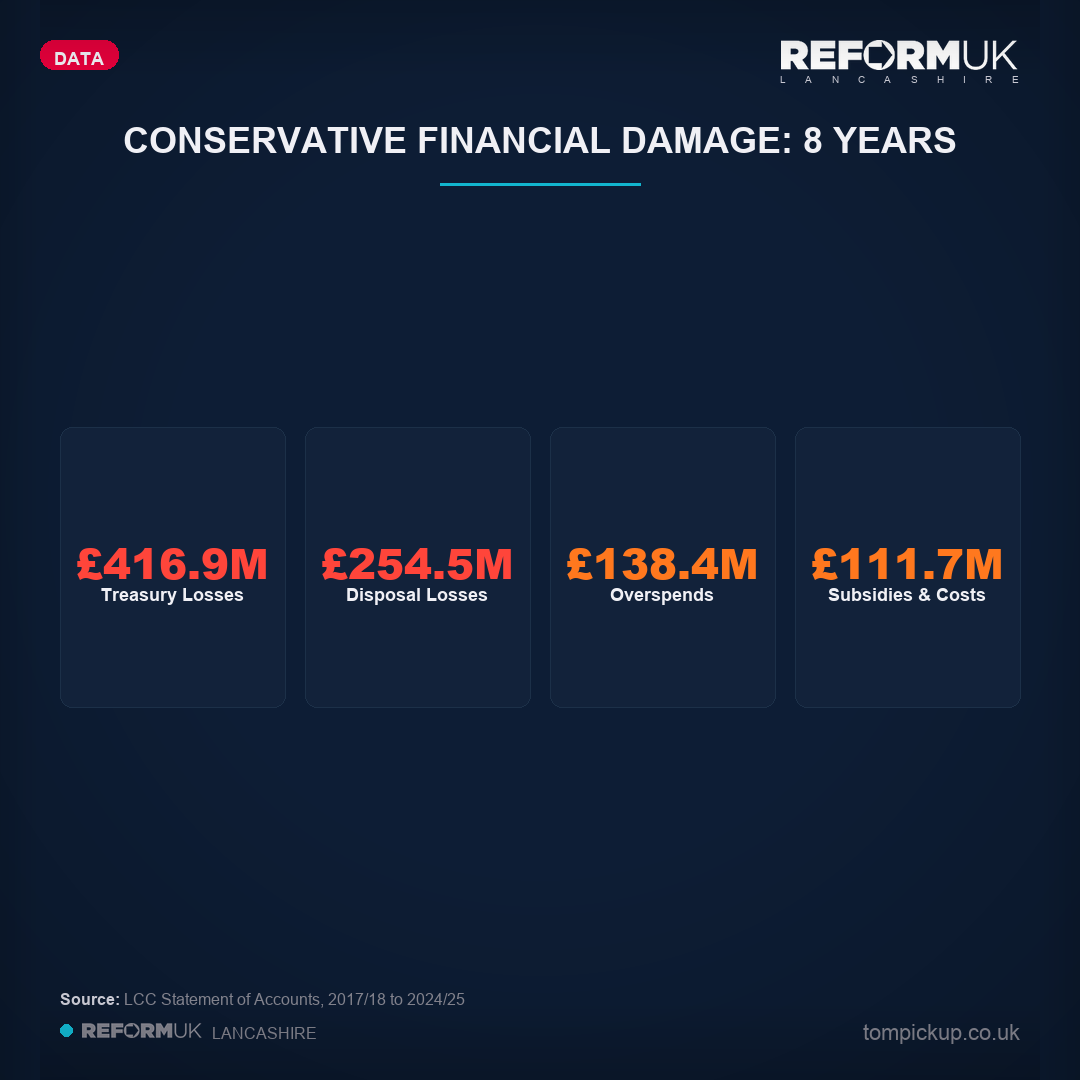
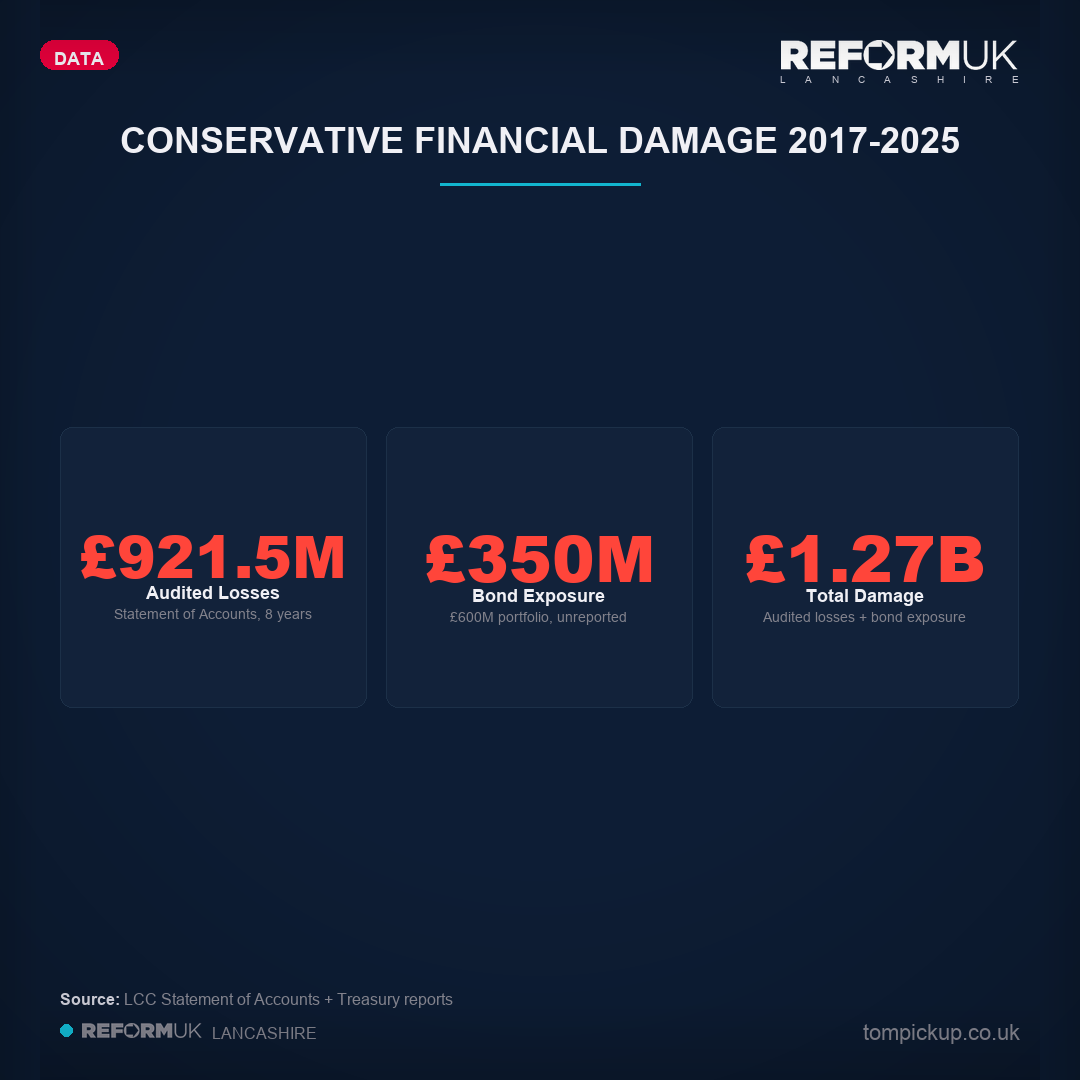
Upgrade article data viz: larger text, combined sections, tighter messaging
Article:
- Combine financial damage + bonds into one section with £1.27B total
- Add 'What £1.27B Looks Like' comparison (vs highways, budget, asylum days)
- Merge savings realisation (£5 per £100) into overspend section
- Remove all emdashes (9 instances)
- Tighten 'What Comes Next': reversed 4.99% rot, just getting started
- Headline stat card: £1.27B total damage (was £921M)

CSS (BlogPost.astro):
- viz-stat .label: 0.75rem/grey -> 0.9375rem/lighter, add font-weight 600
- viz-stat .sublabel: 0.6875rem/#636366 -> 0.8125rem/#8e8e93, add line-height
- viz-comparison .label: same uplift to 0.9375rem/lighter
- viz-label section headers: 0.6875rem -> 0.8125rem, lighter colour
- viz-stat padding: 20px -> 24px, all value sizes bumped ~0.25rem
- Responsive breakpoints updated to match larger base sizes

Images:
- Combine financial-damage + bonds into single 3-stat card
- Remove separate bonds-damage image (no longer referenced)
- Headline stats updated to £1.27B total
- Savings comparison: add £5 per £100 messaging

Changed region(s): [[0.0611, 0.4889, 0.9472, 0.5806], [0.0917, 0.0917, 0.8861, 0.1528], [0.3056, 0.9167, 0.4278, 0.9472]]

diff --git a/scripts/generate_image.py b/scripts/generate_image.py
@@ -787,10 +787,10 @@ ARTICLE_SHAREABLE_PRESETS = {
                 'title': '9 Months of Reform: The Numbers',
                 'source': 'Lancashire County Council official records',
                 'data': [
-                    {'value': '53', 'label': 'Reform UK Seats', 'sublabel': 'of 84 total (63%)', 'color': 'teal'},
-                    {'value': '3.80%', 'label': 'First Budget Rise', 'sublabel': 'Lowest in 12 years (was 4.99%)', 'color': 'green'},
+                    {'value': '53', 'label': 'Reform Seats', 'sublabel': 'of 84 total (63%)', 'color': 'teal'},
+                    {'value': '3.80%', 'label': 'Council Tax Rise', 'sublabel': 'Lowest in 12 years. Was 4.99%.', 'color': 'green'},
                     {'value': '5', 'label': 'Care Homes Saved', 'sublabel': 'Against the national trend', 'color': 'green'},
-                    {'value': '£921M', 'label': 'Tory Losses', 'sublabel': 'Audited 2017-2025', 'color': 'red'},
+                    {'value': '\u00a31.27B', 'label': 'Tory Financial Damage', 'sublabel': 'Losses + bond exposure, 2017-2025', 'color': 'red'},
                 ],
             },
             {
@@ -819,34 +819,22 @@ ARTICLE_SHAREABLE_PRESETS = {
             {
                 'slug': 'savings-comparison',
                 'type': 'comparison',
-                'title': 'The Inherited Overspend',
+                'title': 'Inherited Overspend: Rapid Correction',
                 'source': 'LCC quarterly monitoring reports',
                 'data': {
-                    'before': {'value': '\u00a328M', 'label': 'Inherited Overspend', 'sublabel': 'Conservative 2024/25'},
-                    'after': {'value': '\u00a36.2M', 'label': 'Reform Q3 Position', 'sublabel': '78% reduction in 9 months'},
+                    'before': {'value': '\u00a328M', 'label': 'Inherited Overspend', 'sublabel': 'Tory savings delivery: 48%'},
+                    'after': {'value': '\u00a36.2M', 'label': 'Reform Q3 Position', 'sublabel': '78% cut. \u00a35 savings per \u00a3100 identified.'},
                 },
             },
             {
                 'slug': 'financial-damage',
                 'type': 'stat_grid',
-                'title': 'Conservative Financial Damage: 8 Years',
-                'source': 'LCC Statement of Accounts, 2017/18 to 2024/25',
-                'data': [
-                    {'value': '£416.9M', 'label': 'Treasury Losses', 'color': 'red'},
-                    {'value': '£254.5M', 'label': 'Disposal Losses', 'color': 'red'},
-                    {'value': '£138.4M', 'label': 'Overspends', 'color': 'orange'},
-                    {'value': '£111.7M', 'label': 'Subsidies & Costs', 'color': 'orange'},
-                ],
-            },
-            {
-                'slug': 'bonds-damage',
-                'type': 'stat_grid',
-                'title': 'The Bond Scandal',
+                'title': 'Conservative Financial Damage 2017-2025',
                 'source': 'LCC Statement of Accounts + Treasury reports',
                 'data': [
-                    {'value': '£600M', 'label': 'UKMBA Bond Portfolio', 'sublabel': 'Face value', 'color': 'red'},
-                    {'value': '£350M', 'label': 'Estimated Loss', 'sublabel': 'If sold today', 'color': 'red'},
-                    {'value': '£1.27B', 'label': 'Total Damage', 'sublabel': 'Including unrealised losses', 'color': 'red'},
+                    {'value': '\u00a3921.5M', 'label': 'Audited Losses', 'sublabel': 'Statement of Accounts, 8 years', 'color': 'red'},
+                    {'value': '\u00a3350M', 'label': 'Bond Exposure', 'sublabel': '\u00a3600M portfolio, unreported', 'color': 'red'},
+                    {'value': '\u00a31.27B', 'label': 'Total Damage', 'sublabel': 'Audited losses + bond exposure', 'color': 'red'},
                 ],
             },
             {
@@ -855,9 +843,9 @@ ARTICLE_SHAREABLE_PRESETS = {
                 'title': 'The Inherited Highways Backlog',
                 'source': 'LCC Highways Assessment, Home Office, House of Commons Library',
                 'data': [
-                    {'value': '£650M', 'label': 'Backlog Inherited', 'sublabel': 'Many years of underinvestment', 'color': 'orange'},
-                    {'value': '113', 'label': 'Days of Asylum Hotels', 'sublabel': '£5.77M per day on hotel bills', 'color': 'red'},
-                    {'value': '£13B', 'label': 'UK Foreign Aid', 'sublabel': 'Annual. Backlog is 18 days.', 'color': 'red'},
+                    {'value': '\u00a3650M', 'label': 'Backlog Inherited', 'sublabel': 'Many years of underinvestment', 'color': 'orange'},
+                    {'value': '113', 'label': 'Days of Asylum Hotels', 'sublabel': '\u00a35.77M per day on hotel bills', 'color': 'red'},
+                    {'value': '\u00a313B', 'label': 'UK Foreign Aid', 'sublabel': 'Annual. Backlog is 18 days.', 'color': 'red'},
                 ],
             },
         ],

diff --git a/src/content/news/reform-lancashire-9-months.md b/src/content/news/reform-lancashire-9-months.md
@@ -20,7 +20,6 @@ featured: true
         <a href="/images/share/reform-lancashire-9-months/reform-lancashire-9-months-council-tax-table.png" download>Council Tax Table</a>
         <a href="/images/share/reform-lancashire-9-months/reform-lancashire-9-months-savings-comparison.png" download>Savings Comparison</a>
         <a href="/images/share/reform-lancashire-9-months/reform-lancashire-9-months-financial-damage.png" download>Financial Damage</a>
-        <a href="/images/share/reform-lancashire-9-months/reform-lancashire-9-months-bonds-damage.png" download>Bond Scandal</a>
         <a href="/images/share/reform-lancashire-9-months/reform-lancashire-9-months-highways-inherited.png" download>Highways Backlog</a>
       </div>
     </details>
@@ -36,13 +35,13 @@ This is not a political sales pitch. It is a comparison: what we inherited versu
 <div class="viz-grid viz-grid-4">
 <div class="viz-stat teal">
 <span class="value xl" style="color: #12b6cf;">53</span>
-<span class="label">Reform UK Seats</span>
+<span class="label">Reform Seats</span>
 <span class="sublabel">of 84 total (63%)</span>
 </div>
 <div class="viz-stat green">
 <span class="value xl" style="color: #30d158;">3.80%</span>
-<span class="label">First Budget Rise</span>
-<span class="sublabel">Lowest in 12 years (was 4.99%)</span>
+<span class="label">Council Tax Rise</span>
+<span class="sublabel">Lowest in 12 years. Was 4.99%.</span>
 </div>
 <div class="viz-stat green">
 <span class="value xl" style="color: #30d158;">5</span>
@@ -50,9 +49,9 @@ This is not a political sales pitch. It is a comparison: what we inherited versu
 <span class="sublabel">Against the national trend</span>
 </div>
 <div class="viz-stat red">
-<span class="value xl" style="color: #ff453a;">£921M</span>
-<span class="label">Tory Losses Found</span>
-<span class="sublabel">Audited accounts, 2017-2025</span>
+<span class="value xl" style="color: #ff453a;">£1.27B</span>
+<span class="label">Tory Financial Damage</span>
+<span class="sublabel">Losses + bond exposure, 2017-2025</span>
 </div>
 </div>
 </div>
@@ -61,11 +60,9 @@ This is not a political sales pitch. It is a comparison: what we inherited versu
 
 ## The Budget: Stopping the Rot
 
-For ten consecutive years, the Conservatives raised council tax by the maximum allowed. They never once came in below the referendum cap. They treated the legal limit as a target.
+For ten consecutive years, the Conservatives raised council tax by the maximum allowed. They never once came in below the referendum cap. In the last two years, they hit **4.99%**, the highest rises in the entire decade.
 
-In the last two years alone, they hit **4.99%** — the highest rises in the entire decade.
-
-Reform's first budget, passed in February 2026, set the rise at **3.80%**. The lowest in 12 years. The first time in over a decade that Lancashire County Council has not gone for the maximum.
+Reform's first budget, passed in February 2026, set the rise at **3.80%**. The lowest in 12 years. The first time in over a decade that Lancashire has not gone for the maximum.
 
 - **1.80%** for general council services (cap: 2.99%)
 - **2.00%** for the Adult Social Care precept (cap: 2.00%)
@@ -92,44 +89,111 @@ After two years of 4.99%, Reform brought it down to 3.80%. That is £21 less per
 
 <div class="article-data-viz">
 <a href="/images/share/reform-lancashire-9-months/reform-lancashire-9-months-council-tax-table.png" download title="Download this image to share on social media">
-<img src="/images/share/reform-lancashire-9-months/reform-lancashire-9-months-council-tax-table.png" alt="Council Tax: 10 Years of Maximum Rises — data table showing Conservative rises from 2016 to 2026 vs Reform's 3.80%" loading="lazy" />
+<img src="/images/share/reform-lancashire-9-months/reform-lancashire-9-months-council-tax-table.png" alt="Council Tax: 10 Years of Maximum Rises, data table showing Conservative rises from 2016 to 2026 vs Reform 3.80%" loading="lazy" />
 <span class="download-hint">Tap to download for social media</span>
 </a>
 </div>
 
 ---
 
-## The Overspend: What We Inherited
+## The Overspend: Inherited Mess, Rapid Correction
 
-When Reform took control, the council faced a **£28 million projected overspend**. The Conservatives had set a budget they could not deliver. Their savings programme hit just **48%** of its targets in 2024/25 — meaning more than half the planned savings never materialised.
+When Reform took control, the council faced a **£28 million projected overspend**. The Conservatives had set a budget they could not deliver. Their savings programme hit just **48%** of targets in 2024/25, meaning more than half the planned savings never materialised.
 
-Nine months later, Reform has reduced that inherited overspend to **£6.2 million** at the Q3 position — a 78% reduction. That is the quarterly monitoring report, published on the council's website, measured by the same finance team that served both administrations.
-
-<div class="article-data-viz">
-<a href="/images/share/reform-lancashire-9-months/reform-lancashire-9-months-savings-comparison.png" download title="Download this image to share on social media">
-<img src="/images/share/reform-lancashire-9-months/reform-lancashire-9-months-savings-comparison.png" alt="Overspend Reduction — Conservative £28M vs Reform £6.2M" loading="lazy" />
-<span class="download-hint">Tap to download for social media</span>
-</a>
-</div>
+Nine months later, Reform has reduced that inherited overspend to **£6.2 million** at Q3. A 78% reduction. Same finance team, same measurement, published on the council website. We have also identified **£5 in potential savings for every £100 spent** across the council.
 
 <div class="viz-comparison">
 <div class="side before">
 <span class="value" style="color: #ff453a;">£28M</span>
 <span class="label">Inherited Overspend</span>
-<span class="sublabel" style="font-size: 0.6875rem; color: #636366; display: block; margin-top: 4px;">Conservative 2024/25 position</span>
+<span class="sublabel" style="font-size: 0.8125rem; color: #8e8e93; display: block; margin-top: 6px;">Conservative 48% savings delivery</span>
 </div>
 <div class="side after">
 <span class="value" style="color: #30d158;">£6.2M</span>
 <span class="label">Reform Q3 Position</span>
-<span class="sublabel" style="font-size: 0.6875rem; color: #636366; display: block; margin-top: 4px;">78% reduction in 9 months</span>
+<span class="sublabel" style="font-size: 0.8125rem; color: #8e8e93; display: block; margin-top: 6px;">78% reduction. £5 savings per £100 identified.</span>
 </div>
+</div>
+
+<div class="article-data-viz">
+<a href="/images/share/reform-lancashire-9-months/reform-lancashire-9-months-savings-comparison.png" download title="Download this image to share on social media">
+<img src="/images/share/reform-lancashire-9-months/reform-lancashire-9-months-savings-comparison.png" alt="Overspend Reduction: Conservative £28M vs Reform £6.2M, 78% reduction in 9 months" loading="lazy" />
+<span class="download-hint">Tap to download for social media</span>
+</a>
+</div>
+
+---
+
+## Financial Damage: The Full Conservative Record
+
+Over eight years, the Conservatives presided over **£921.5 million** in documented losses. That figure comes from the council's own audited Statement of Accounts, 2017/18 to 2024/25:
+
+- **£416.9M** in treasury and financial instrument losses
+- **£254.5M** in disposal and academy transfer losses
+- **£138.4M** in department overspends
+- **£111.7M** in direct subsidy and partnership costs
+
+On top of that, Reform's scrutiny of the accounts uncovered a **£600 million UKMBA bond portfolio** with an estimated **£350 million unrealised loss**. The previous administration never transparently reported these losses to councillors or the public.
+
+**Total financial damage: £1.27 billion.**
+
+These are not Reform calculations. They are the council's own audited figures, sourced to specific page numbers in the Statement of Accounts.
+
+<div class="viz-panel-reform">
+<div class="viz-label teal">Conservative Financial Damage 2017-2025</div>
+<div class="viz-grid viz-grid-3">
+<div class="viz-stat red">
+<span class="value lg" style="color: #ff453a;">£921.5M</span>
+<span class="label">Audited Losses</span>
+<span class="sublabel">Statement of Accounts, 8 years</span>
+</div>
+<div class="viz-stat red">
+<span class="value lg" style="color: #ff453a;">£350M</span>
+<span class="label">Bond Exposure</span>
+<span class="sublabel">£600M portfolio, unreported losses</span>
+</div>
+<div class="viz-stat red">
+<span class="value xl" style="color: #ff453a;">£1.27B</span>
+<span class="label">Total Damage</span>
+<span class="sublabel">Audited losses + bond exposure</span>
+</div>
+</div>
+</div>
+
+<div class="viz-label teal" style="margin-top: 32px; margin-bottom: 12px;">What £1.27 Billion Looks Like</div>
+
+<div class="viz-panel-reform">
+<div class="viz-grid viz-grid-3">
+<div class="viz-stat orange">
+<span class="value lg" style="color: #ff9f0a;">£650M</span>
+<span class="label">Highways Backlog</span>
+<span class="sublabel">Could fix it twice over</span>
+</div>
+<div class="viz-stat orange">
+<span class="value lg" style="color: #ff9f0a;">£986M</span>
+<span class="label">Annual Budget</span>
+<span class="sublabel">More than a full year of council services</span>
+</div>
+<div class="viz-stat orange">
+<span class="value lg" style="color: #ff9f0a;">220</span>
+<span class="label">Days of Asylum Hotels</span>
+<span class="sublabel">At £5.77M per day nationally</span>
+</div>
+</div>
+</div>
+
+<div class="article-data-viz">
+<a href="/images/share/reform-lancashire-9-months/reform-lancashire-9-months-financial-damage.png" download title="Download this image to share on social media">
+<img src="/images/share/reform-lancashire-9-months/reform-lancashire-9-months-financial-damage.png" alt="Conservative Financial Damage: £921.5M audited losses plus £350M bond exposure, total £1.27 billion" loading="lazy" />
+<span class="download-hint">Tap to download for social media</span>
+</a>
 </div>
 
 ---
 
 ## Roads: The Backlog They Left Behind
 
-The Conservatives left Lancashire with a **£650 million highways maintenance backlog**. That figure comes from the council's own highways condition assessment. It is not a number Reform invented.
+The Conservatives left Lancashire with a **£650 million highways maintenance backlog**. That figure comes from the council's own highways condition assessment.
 
 To understand how fixable this is, consider what Westminster chooses to spend elsewhere:
 
@@ -143,13 +207,10 @@ To understand how fixable this is, consider what Westminster chooses to spend el
 
 *Sources: House of Commons Library (ODA), Home Office (asylum accommodation), Full Fact (Chagos NPV), Construction Enquirer (HS2), ALARM Survey 2026 (national backlog).*
 
-The UK spends £5.77 million every single day housing asylum seekers in hotels. Lancashire's entire road repair bill could be cleared for 113 days of that. HS2 has spent £592 million buying land it no longer needs — almost the exact size of Lancashire's backlog, wasted on unused fields.
-
 Reform is doing what it can within the budget. A three-year **£45 million resurfacing programme** targets the 100 worst roads. AI-equipped sensors on bin lorries scan road surfaces during normal collection rounds, identifying defects before they become complaints.
 
-This is a problem created by many years of underinvestment and one that central government could resolve quickly if it chose to prioritise British roads over foreign aid, asylum hotels, and vanity projects. The blame lies with those who let them deteriorate, not with those who inherited the backlog nine months ago.
-
 <div class="viz-panel-reform">
+<div class="viz-label teal">Westminster Waste vs Lancashire Roads</div>
 <div class="viz-grid viz-grid-3">
 <div class="viz-stat orange">
 <span class="value lg" style="color: #ff9f0a;">£650M</span>
@@ -175,42 +236,11 @@ This is a problem created by many years of underinvestment and one that central 
 
 Five county care homes faced a £5 million maintenance backlog and an uncertain future. Reform launched an eight-week public consultation. **1,600 residents responded.** The message was clear: these homes serve people who have nowhere else to go.
 
-Reform listened. All five care homes remain open, and the council is investing in their future rather than closing them down.
+Reform listened. All five care homes remain open, with investment in their future.
 
-That decision goes against the national trend. Across England, local authority care home provision has collapsed — from **64% of beds in 1979 to just 4% today** (CMA, 2023). Between 2015 and 2020, **1,578 care homes closed** nationally, displacing nearly 50,000 residents. Councils everywhere are shutting their doors. Lancashire kept them open.
+That decision goes against the national trend. Across England, local authority care home provision has collapsed, from **64% of beds in 1979 to just 4% today** (CMA, 2023). Between 2015 and 2020, **1,578 care homes closed** nationally, displacing nearly 50,000 residents. Councils everywhere are shutting their doors. Lancashire kept them open.
 
 In children's services, Lancashire received a Department for Education improvement notice under the Conservatives. Reform's response: 677 new SEND school places commissioned, the EHCP backlog programme accelerated, and SEND transport costs reduced by competitive tendering.
-
----
-
-## Financial Damage: What They Left Behind
-
-The full scale of the Conservative financial record is documented separately in our analysis of the Statement of Accounts. The headline figures:
-
-- **£416.9 million** in treasury and financial instrument losses
-- **£254.5 million** in disposal and academy transfer losses
-- **£138.4 million** in department overspends
-- **£111.7 million** in direct subsidy and partnership costs
-
-Total documented financial damage: **£921.5 million** over eight years.
-
-When the estimated unrealised loss on the £600 million UKMBA bond portfolio is included, the total rises to **£1.27 billion**.
-
-These are not Reform UK calculations. They are the council's own audited figures, sourced to specific pages in the Statement of Accounts from 2017/18 to 2024/25.
-
-<div class="article-data-viz">
-<a href="/images/share/reform-lancashire-9-months/reform-lancashire-9-months-financial-damage.png" download title="Download this image to share on social media">
-<img src="/images/share/reform-lancashire-9-months/reform-lancashire-9-months-financial-damage.png" alt="Conservative Financial Damage: 8 Years — £416.9M treasury, £254.5M disposal, £138.4M overspends, £111.7M subsidies" loading="lazy" />
-<span class="download-hint">Tap to download for social media</span>
-</a>
-</div>
-
-<div class="article-data-viz">
-<a href="/images/share/reform-lancashire-9-months/reform-lancashire-9-months-bonds-damage.png" download title="Download this image to share on social media">
-<img src="/images/share/reform-lancashire-9-months/reform-lancashire-9-months-bonds-damage.png" alt="The Bond Scandal — £600M portfolio, £350M estimated loss, £1.27B total damage" loading="lazy" />
-<span class="download-hint">Tap to download for social media</span>
-</a>
-</div>
 
 ---
 
@@ -230,11 +260,13 @@ None of this is expensive or experimental. It is the application of technology t
 
 Nine months is not enough to undo many years of neglect. The £650 million highways backlog will take a decade. The SEND improvement notice requires sustained investment. The financial instrument losses cannot be recovered.
 
-But the trajectory has changed. The council tax rise is the lowest in 12 years. The inherited overspend has been cut by 78%. The care homes are open. The technology works.
+But the trajectory has changed. We reversed the 4.99% rot with the lowest council tax rise in over a decade. The inherited overspend has been cut by 78%. We have identified £5 in savings for every £100 of council spending. The care homes are open. The technology works.
 
-The next article in this series will break down exactly where your council tax goes, band by band, line by line. Lancashire residents pay some of the highest council tax in the North. They deserve to know what it buys.
+We are just getting started.
+
+The next article in this series will break down exactly where your council tax goes, band by band, line by line.
 
 <div class="viz-callout">
 <p style="font-size: 1.125rem; font-weight: 600; color: #f0f0f5; margin: 0 0 8px;">Every figure in this article is sourced to official Lancashire County Council records.</p>
-<p style="font-size: 0.8125rem; color: #82828c; margin: 0;">Budget monitoring reports, Statement of Accounts, highways condition assessments, and council committee papers are all publicly available at <a href="https://lancashire.gov.uk" style="color: #12b6cf;">lancashire.gov.uk</a></p>
+<p style="font-size: 0.875rem; color: #8e8e93; margin: 0;">Budget monitoring reports, Statement of Accounts, highways condition assessments, and council committee papers are all publicly available at <a href="https://lancashire.gov.uk" style="color: #12b6cf;">lancashire.gov.uk</a></p>
 </div>
